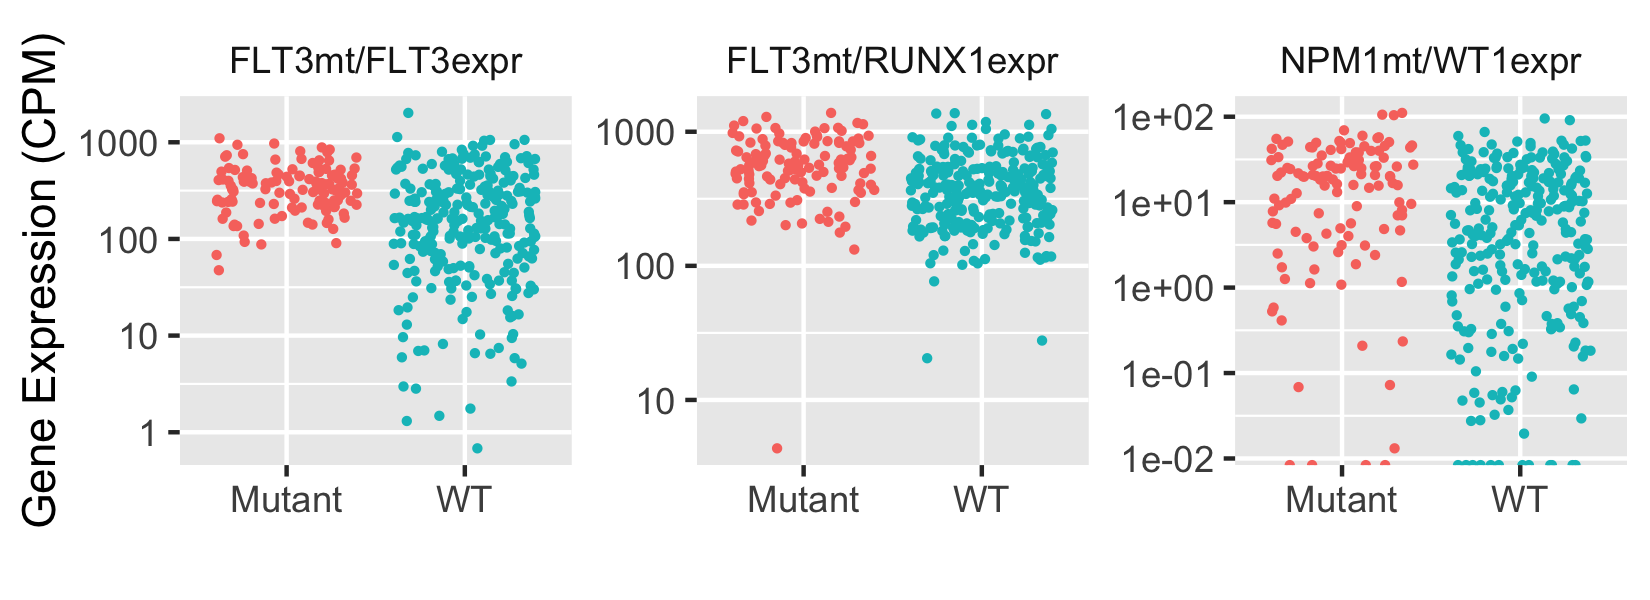
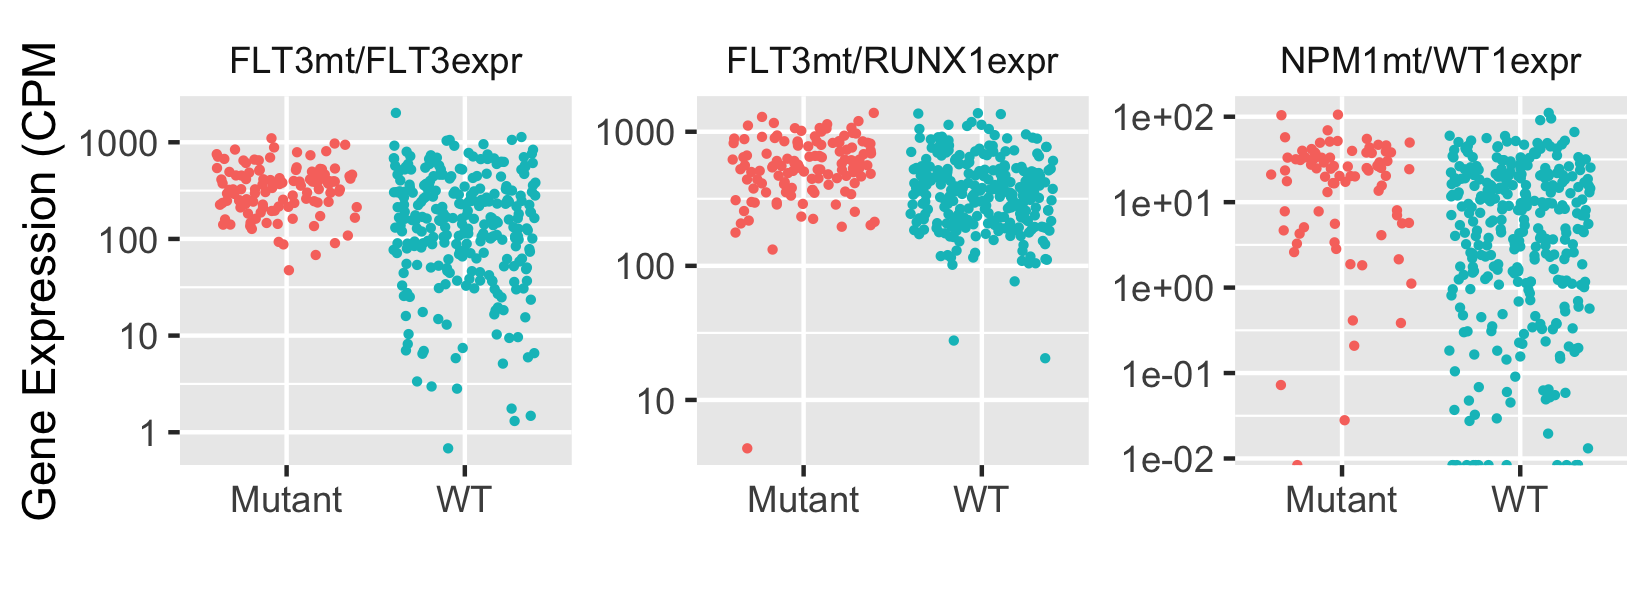
fix readme

diff --git a/README.md b/README.md
@@ -62,11 +62,12 @@ Scanning the excel sheets, the three most significant (P<1e-8) mutation-expressi
 ```
 genesE=c("FLT3","RUNX1","WT1")
 genesM=c("FLT3","FLT3","NPM1")
-L=map2(genesE,geneM,function(x,y) getExpr(x,y,v,cpm))
+L=map2(genesE,genesM,function(x,y) getExpr(x,y,v,cpm))
 names(L)=genes=paste0(genesM,"mt/",genesE,"expr")
 for (i in genes) L[[i]]$genes=i
 dd=bind_rows(L)
 gx=xlab("")
+gy=ylab("Gene Expression (CPM)")
 sbb=theme(strip.background=element_blank())
 ltp=theme(legend.position="none")
 sy=scale_y_log10()
